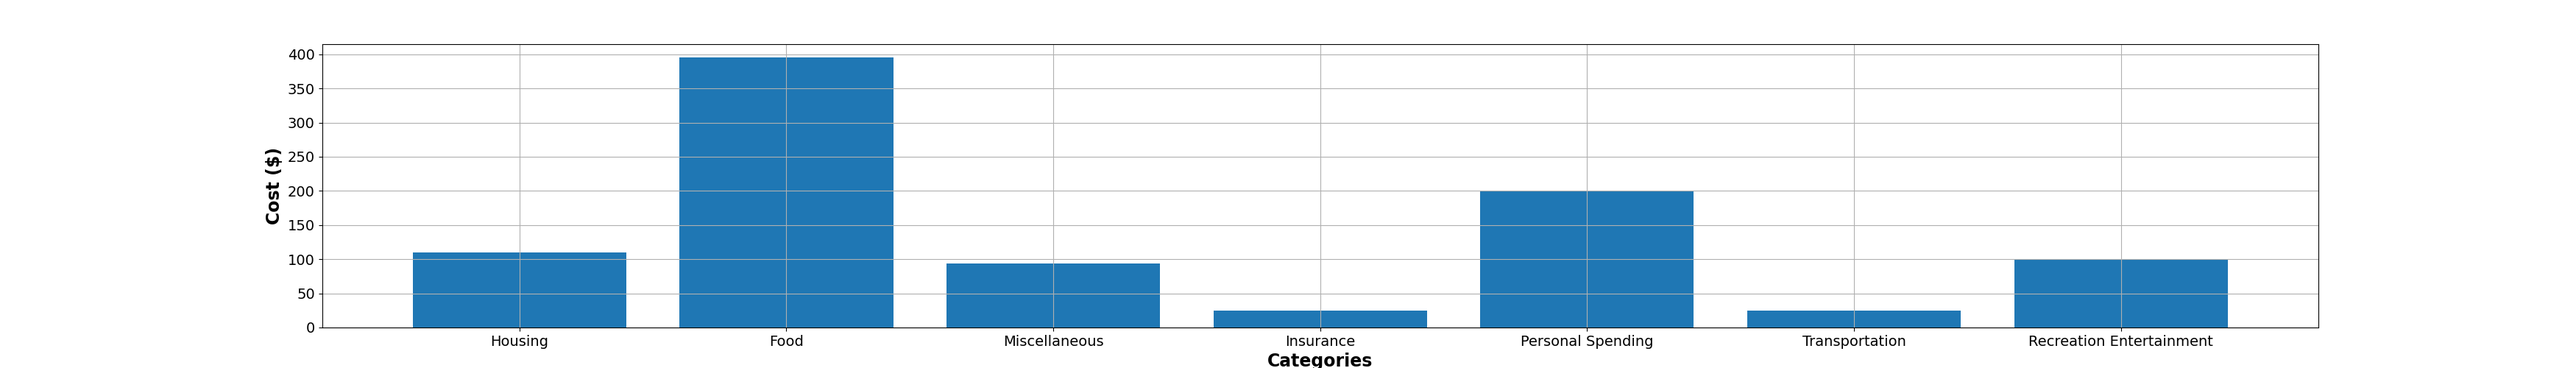
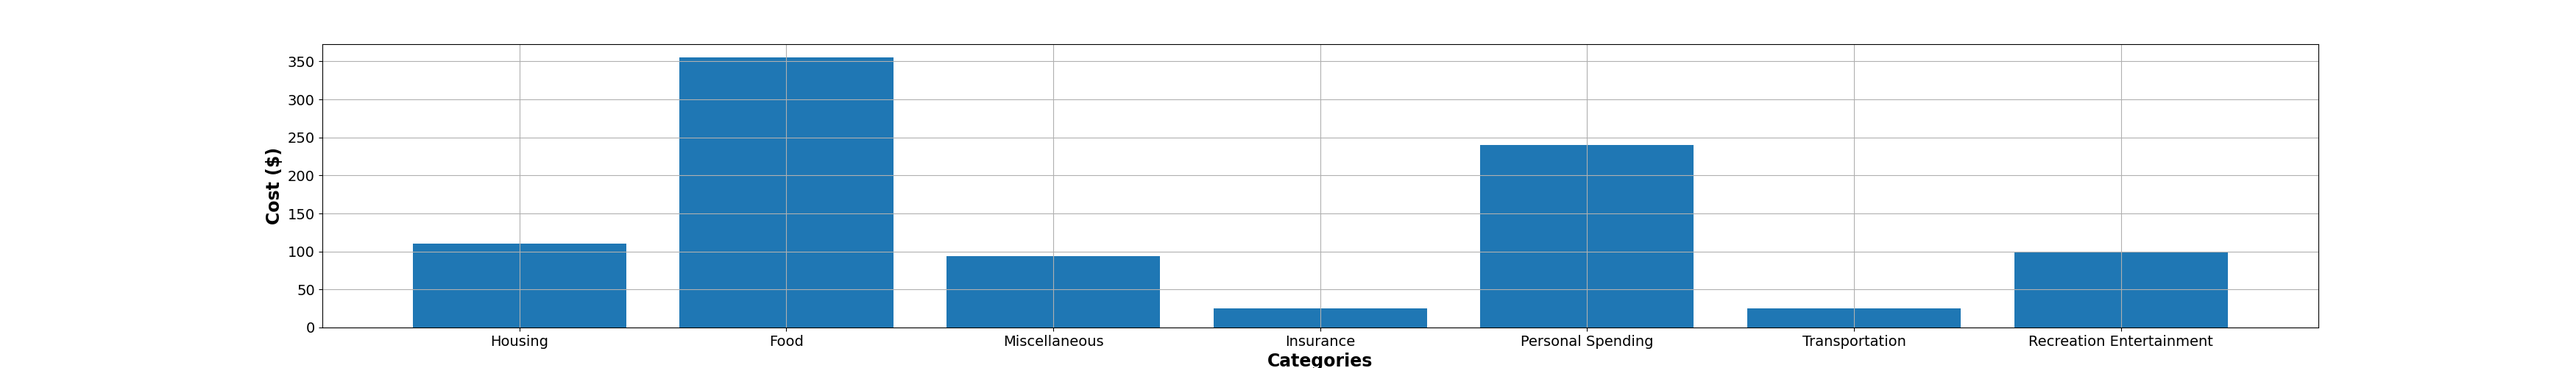
Changer of expense's categories in database

diff --git a/templates/dashboard.html b/templates/dashboard.html
@@ -6,7 +6,7 @@
 
 {% block main %}
     <head id="titleHead">
-        <p id="titleDash">
+        <p id="titleDash" data-tableName={{tableName}}>
             <b><u>Dashboard: {{tableName}}</u></b>
         </p>
     </head>
@@ -58,8 +58,8 @@
         </table>
 
         <br>
-        <button type="button" class="btn btn-success" onclick="submitCategoryChange()">Submit Changes</button>
-        <br>
+        <button id="submitChangesButton" type="button" class="btn btn-success" onclick="submitCategoryChange()">Submit Changes</button>
+        <br><br>
 
     </div>
 {% endblock %}

diff --git a/static/myscripts.js b/static/myscripts.js
@@ -37,11 +37,11 @@ function submitCategoryChange () {
             }
         }
     }
-    
 
-    data = {"Changes" : changes}
+    titleDash = document.getElementById("titleDash")
+    tableName = titleDash.getAttribute("data-tableName")
 
-    alert(data)
+    data = {"Changes" : [tableName, changes]}
 
     const options = {
         method: "POST",
@@ -52,4 +52,5 @@ function submitCategoryChange () {
     }
 
     fetch("/dashboard/edit", options)
+    location.reload()
 }

diff --git a/templates/apology.html b/templates/apology.html
@@ -1,0 +1,18 @@
+{% extends "layout.html" %}
+
+{% block title %}
+    Apology:
+{% endblock %}
+
+{% block main %}
+    <head id="titleHead">
+        <p id="titleDash">
+            <b><u>Sorry"</u></b>
+        </p>
+    </head>
+
+    <p>
+        {{placeholder}}
+    </p>
+    
+{% endblock %}

diff --git a/static/styles.css b/static/styles.css
@@ -169,6 +169,11 @@ nav .navbar-brand
         border: 1px solid black;
         margin: auto;
     }
+
+    #submitChangesButton:hover{
+        border: solid rgb(126, 219, 126) 3px;
+    }
+
 }
 
 

diff --git a/app.py b/app.py
@@ -6,7 +6,7 @@ import pandas as pd;
 from matplotlib import pyplot as plt
 from PIL import Image
 from cs50 import SQL
-from flask import Flask, flash, redirect, render_template, jsonify, request, session
+from flask import Flask, flash, redirect, render_template, jsonify, url_for, request, session
 from flask_session import Session
 from tempfile import mkdtemp
 from werkzeug.security import check_password_hash, generate_password_hash
@@ -321,8 +321,30 @@ def dashboardEdit():
         '''____________User's Expenses Categories edit/change (ACTIVATED IN SELECT OPTIONS)______________'''
         changes = request.get_json()
         if changes:
-            print("\n\n\n\n______________________________________________")
-            print("Changes are \n" + str(changes) + "\n\n\n\n")
+            tableName = changes['Changes'][0]
+            changeRequests = changes['Changes'][1]
+            userDatabase = ("sqlite:///" + "usersDatabases/" + username + ".db")
+            userDatabase = SQL(userDatabase)
+            personal = personalCategories(username)
+
+            # Edits the categories in the desired table as requested by the user:
+            for change in changeRequests:
+                # Checks if it's a valid change of categories:
+                currentCategory = userDatabase.execute(
+                "SELECT category FROM ? WHERE id = ?;",
+                tableName, change['expenseId']
+                )
+                currentCategory = currentCategory[0]['category']
+                if currentCategory != change['newCategory']:
+                    # Changes categories:
+                    userDatabase.execute(
+                        "UPDATE ? SET category = ? WHERE id = ?;",
+                        tableName, change['newCategory'], change['expenseId']
+                        )
+                    
+            return redirect("/dashboard")
+    else:
+        return render_template("apology.html", placeholder="Not a valid Method")
 
 
 @app.route("/delete-user", methods=["GET", "POST"])   
